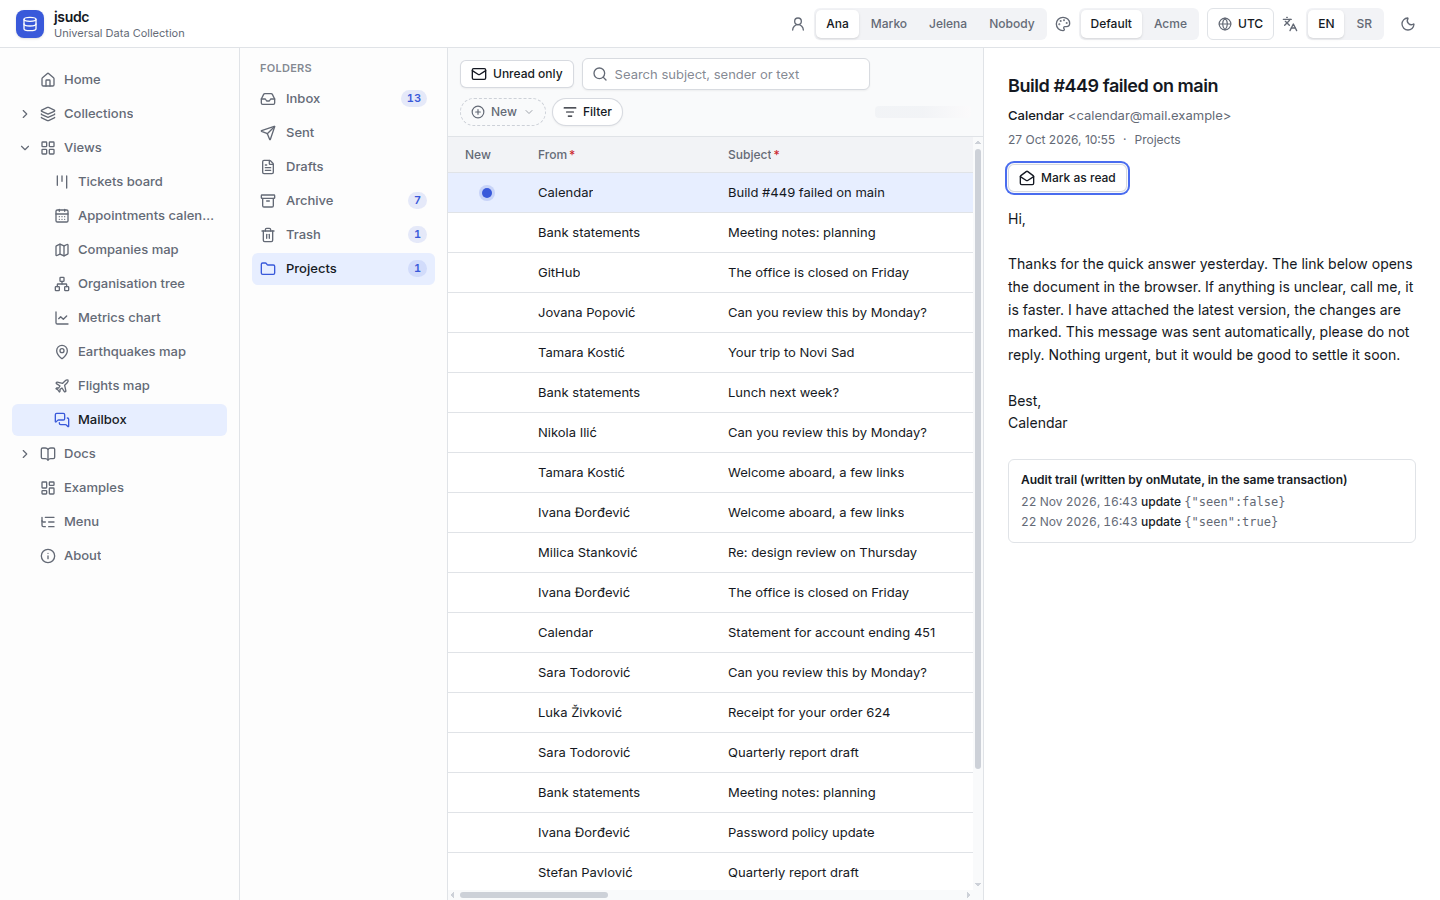
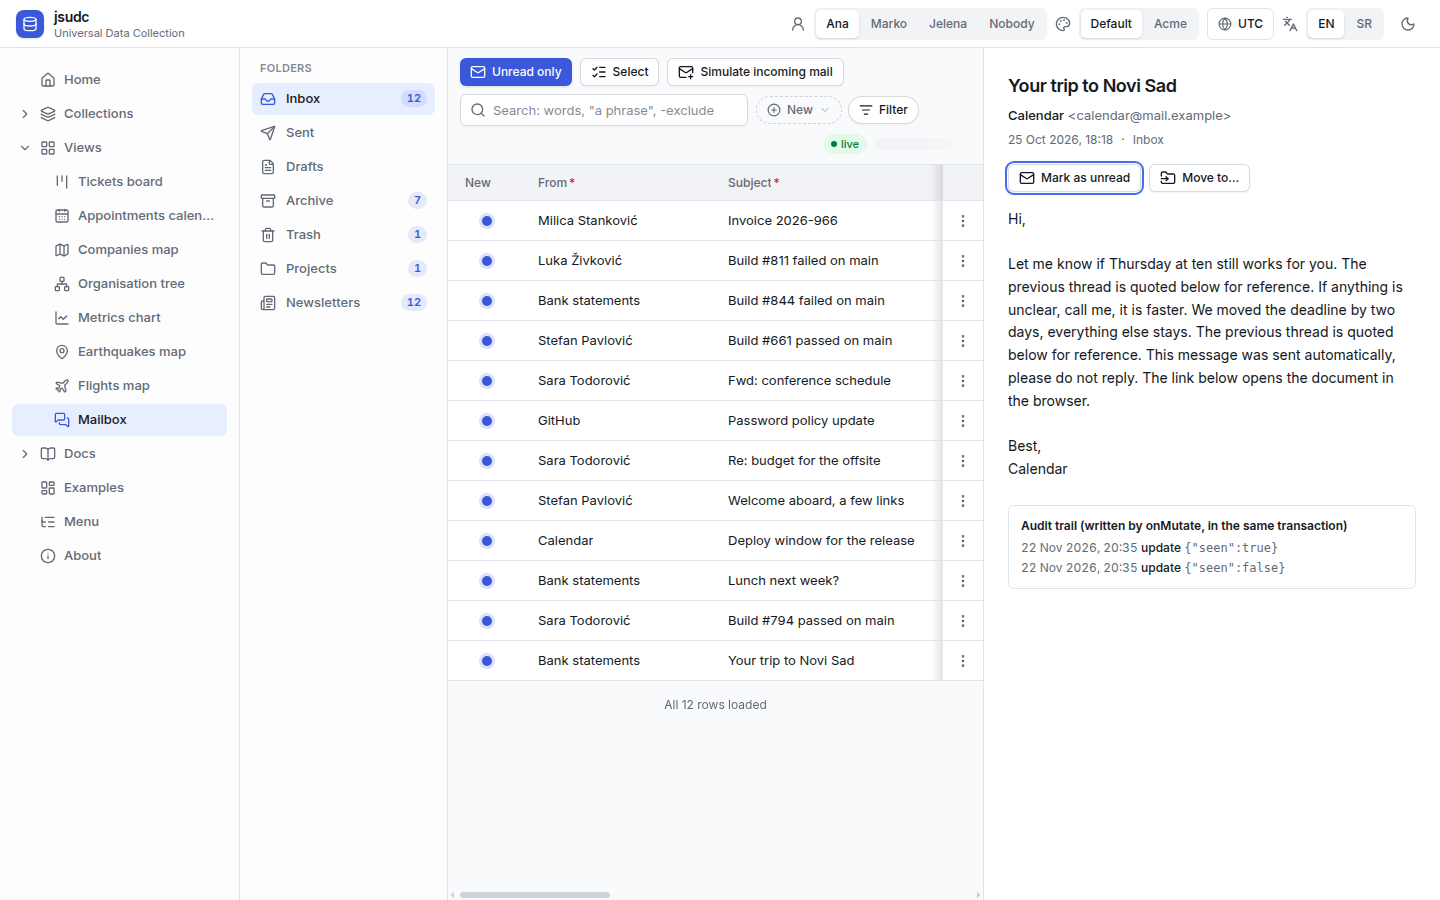
docs: the mailbox on @jsudc/* 0.5.0 — README, a demo.md section with screenshots; the change feed's route in the production vhost
README: what each package adds in 0.5.0, the mailbox's new parts
(selection and bulk bar, row menu, the typed host action in @jsudc/shared,
live updates, source search, the long folder), ^0.5.0, shared/ in the
layout, the GET /udc/changes proxy rules.
demo.md: "What 0.5.0 adds" — a table of which part shows what, seven steps
to click, what a multi-process host configures (the Postgres bus) and what a
proxy must allow, four things to know (Select as a switch and the ARIA
change, a feed per user reported as TCKWEPXYF9, derived counts, search vs
"all that match"); the eight 0.4.0 pictures retaken and seven new ones, at
1440x900.
deploy/nginx/examples.jsudc.dev.conf: location = /udc/changes, unbuffered,
for when production is deployed (its own ticket).

Thilo-Ticket: TCK2E69MJD

diff --git a/docs/demo.md b/docs/demo.md
@@ -10,8 +10,8 @@ UDC path, shown as a table and as cards, with columns added from the UI.
 nvm use
 npm ci                      # installs @jsudc/* from npmjs.org, already built
 npm run db:setup
-npm run db:migrate -w @jsudc/backend   # once after pulling: new tables (0003 appointments … 0005 metrics, 0006 the mailbox)
-npm run seed -- --reset     # 200 companies (with lat / lng), 3 boards / 15 buckets / 60 tickets, ~640 appointments around today, 30 days of metrics up to now, 3 mailboxes of 300 messages
+npm run db:migrate -w @jsudc/backend   # once after pulling: new tables (0003 appointments … 0005 metrics, 0006 the mailbox, 0007 its full-text index)
+npm run seed -- --reset     # 200 companies (with lat / lng), 3 boards / 15 buckets / 60 tickets, ~640 appointments around today, 30 days of metrics up to now, 3 mailboxes of 300 messages plus 5,000 newsletters each
 npm run dev                 # backend :5100 + Vite (it prints its port)
 ```
 
@@ -504,10 +504,10 @@ Database / Files / Internet.
 
 ## The mailbox: `/mail`, context and scope, `postgres_table`, `onMutate`, an embedded view
 
-A small mail client, written in the example on `@jsudc/*` 0.4.0: three demo
+A small mail client, written in the example on `@jsudc/*` 0.4.0 and extended on 0.5.0 (see [What 0.5.0 adds](#what-050-adds-selection-row-actions-host-actions-live-updates-source-search-a-long-list)): three demo
 users with their own folders and messages, a folder list and a reading pane
 of the example's own, and the message list between them a `UdcDataView`.
-Each part shows one thing 0.4.0 adds:
+Each part below shows one thing 0.4.0 adds:
 
 | part | where | what it demonstrates |
 |---|---|---|
@@ -604,9 +604,9 @@ Three things to know in 0.4.0:
 
 - **The count.** With `total_count: false` the server answers `total: null`
   and the toolbar's count stays a grey placeholder instead of saying how many
-  rows are loaded (visible top right in the pictures). That is a bug of
-  `@jsudc/react` 0.4.0, reported as TCKXTDJURQ; the example does not work
-  around it.
+  rows are loaded (visible top right in the pictures, beside *live*). That is
+  a bug of `@jsudc/react` 0.4.0, reported as TCKXTDJURQ, still there in 0.5.0;
+  the example does not work around it.
 - **Every field is a column.** `describe` adds a column for each schema field
   a view does not list, and a view cannot leave one out, so the message
   list's `view.yaml` lists the columns the reading pane shows instead
@@ -617,6 +617,140 @@ Three things to know in 0.4.0:
   host whose own pages embed the list imports the scoped sheet instead; the
   code under `src/mail/` is the same either way.
 
+### What 0.5.0 adds: selection, row actions, host actions, live updates, source search, a long list
+
+The same screen on `@jsudc/*` 0.5.0. Nothing above changed. Each new part is
+here the way a host such as a mail client would use it:
+
+| part | where | what it demonstrates |
+|---|---|---|
+| the toolbar's **Select**, the checkboxes and the bulk bar | `mail_messages/view.yaml` (`multiselect`, `bulk_actions`), `MailPage.tsx` (`selectable`, `actions`) | selection (a range on shift-click, Space on the active row, the page); *Mark read* / *Mark unread* by `set` (a `mutate_many` update, no code); *Delete* built in (a confirmation, then `mutate_many` delete); *Archive* by a host handler (`actions={{ archive }}`) |
+| "Select all that match" | the same, on a folder | the selection by filter minus the unticked rows; `mail_messages` has `total_count: false`, so the offer and the bar carry no number and the result says what the server changed (`updated`) |
+| the dots at the end of each row | `row_action_defs`, `row_actions_display: menu` | row actions in a menu (also right-click, Shift+F10 or `.`), each where its `when` holds: no *Mark read* on a read message, no *Archive* in the Archive |
+| **Move to…** in the reading pane, and *Archive* | `shared/src/mail-actions.ts`, `backend/src/mail/actions.ts`, `MailPage.tsx` | a host action typed end to end: `defineHostAction` once in `@jsudc/shared`, `Dispatcher.register(moveToFolder, handler)` with the request context, `useUdcAction(moveToFolder)` in the browser. The handler reads the target folder under the caller's scope (another user's folder is `not_found`) and moves with one `mutate_many`, so the row scope, the audit and the feed all apply |
+| **Simulate incoming mail** and the *live* badge | `simulateIncoming` in the same files, `createChangeFeed()` in `backend/src/main.ts`, `DemoUserFeed` in `App.tsx` | the change feed: `UdcProvider changes`; a host's own write announced with `changes.notify("mail_messages", { op: "insert", ids, ctx })`, which only streams in that user's scope hear; `useUdcChanges` refreshes the folder counts, which the feed cannot know are derived from the messages |
+| the search box | migration `0007_mail_search.sql`, `MAIL_SEARCH` in `backend/src/mail/sources.ts` | search answered by the source: a generated `tsvector` (subject A, sender B, text C; `english` stemming) with a GIN index, the `postgres_table` `search` option (`match` and `rank`), `capabilities.search: "source"`; the box sends `search`, best match first |
+| *Newsletters* | `generateNewsletters` in `backend/scripts/generate-mail.ts`, `VIRTUALIZE` in `MailPage.tsx` | a long list: 5,000 messages per user, infinite paging, `virtualize={{ enabled: true, overscan: 20 }}` |
+
+After pulling: `npm run db:migrate -w @jsudc/backend` (for `0007`), then
+`npm run seed`. *Newsletters* is added for every user who has none, even
+without `--reset`, so a mailbox seeded by 0.4.0 keeps its messages and gains
+the folder.
+
+1. **Select and archive.** In Ana's Inbox press **Select** (`?select=1`): a
+   checkbox column appears. Tick three messages; the bar shows *3 selected*,
+   **Mark read**, **Mark unread**, **Archive** and **Delete**. Press
+   **Archive**: one `POST /udc/mail.move_to_folder` with the three ids, and
+   they leave the Inbox for the Archive (its unread count follows). Every
+   moved message has an audit row: the move is a `mutate_many` with `onMutate`,
+   one transaction, all or nothing.
+
+   ![Three messages selected, the bulk bar](../frontend/public/screenshots/mail-select-bulk.png)
+
+2. **Select all that match.** Open **Archive** (60 messages, 50 per page),
+   press **Select**, tick the header's checkbox: the bar offers *Select all
+   that match*, with no number, because the folder has no total. Take it: *All
+   matching rows are selected*. **Mark unread** now sends `mutate_many` with
+   the folder's filter, not ids, and the server answers how many it changed.
+
+   ![The offer, with no number](../frontend/public/screenshots/mail-select-all-offer.png)
+
+   ![All matching rows are selected](../frontend/public/screenshots/mail-select-all-matching.png)
+
+3. **A row's menu.** Without selecting anything, press the dots at the end of
+   an unread message (or right-click it, or Shift+F10 / `.` on the active
+   row): *Mark read*, *Archive*, *Delete*. On a read message the menu offers
+   *Mark unread* instead; in the Archive there is no *Archive*. *Mark read*
+   shows the message read at once and puts it back if the server refuses.
+
+   ![The row menu of a read message](../frontend/public/screenshots/mail-row-menu.png)
+
+4. **Move to folder.** Open a message and press **Move to…** in the reading
+   pane. The menu lists the user's other folders; pick one. The answer is
+   typed `{ moved, failed }`. Over HTTP, another user's folder is
+   `not_found` and another user's message is in `failed`:
+
+   ```sh
+   curl -s localhost:5100/udc/mail.move_to_folder -H 'content-type: application/json' -H 'x-demo-user: ana' \
+     -d '{"folder_id":"<a folder id of Marko>","ids":["<a message id of Ana>"]}'
+   # {"kind":"udc.mail.move_to_folder.err",…,"payload":{"code":"not_found",…}}
+   ```
+
+   ![Move to… in the reading pane](../frontend/public/screenshots/mail-move-to.png)
+
+5. **Incoming mail, live.** The list's toolbar shows *live*: the stream is
+   open. Press **Simulate incoming mail**: the backend writes a message into
+   Ana's Inbox outside jsudc and tells the feed. The new message appears at
+   the top, unread, and the Inbox count goes up, without a reload. Now open a
+   second browser (or a private window) as **Marko** on `/mail` and simulate
+   mail for Ana again: Marko's screen does not move. His stream asked for the
+   same collection, but the server tests each change against each stream's
+   row scope (`owner = marko`) and sends him nothing. Events carry ids only,
+   never rows: the client refetches under its own scope.
+
+   ![A message arrived by itself](../frontend/public/screenshots/mail-incoming.png)
+
+6. **Search by rank.** Type `invoices` in the search box: the request carries
+   `search: "invoices"` (no `contains` filters) and no sort, so Postgres
+   answers best match first (`ts_rank`); stemming finds *Invoice*. The
+   newest-first default steps aside while a search is typed and comes back
+   when the box is cleared; a column you sort by is kept. Web-search syntax
+   works: `"design review"`, `build -passed`.
+
+   ![A search answered by the full-text index](../frontend/public/screenshots/mail-search.png)
+
+7. **A long list.** Open **Newsletters** and scroll, or hold `j`: pages of 50
+   arrive as you near the end, and however many are loaded the table keeps a
+   few dozen rows in the page (spacer rows stand for the rest). The
+   scrollbar, the sticky header and the keys behave as if every row were
+   there; `aria-rowcount` is the loaded count.
+
+   ![5,000 newsletters, windowed](../frontend/public/screenshots/mail-long-folder.png)
+
+**One process or several.** The stage runs one backend process, so
+`createChangeFeed()` uses the default in-process bus. A host with several
+processes behind a load balancer gives every one the same bus, so a write
+through one reaches the streams of the others:
+
+```ts
+import { createChangeFeed, createPostgresChangeBus } from "@jsudc/server";
+
+const changes = createChangeFeed({
+  bus: createPostgresChangeBus({ connectionString: process.env.DATABASE_URL!, pool: handle.pool }),
+});
+```
+
+`PostgresChangeBus` keeps one `LISTEN` connection per process (reopened with
+backoff) and sends with `NOTIFY` on `jsudc_changes`; Redis or NATS is a
+`ChangeBus` of your own. Whatever sits in front must not buffer the stream:
+nginx `proxy_buffering off`, a read timeout above the 15 s heartbeat, HTTP/1.1
+upstream (the route sends `X-Accel-Buffering: no` itself).
+`deploy/nginx/examples.jsudc.dev.conf` has that block for `/udc/changes`. The
+stage vhost sends everything to Vite, which streams it through.
+
+Things to know in 0.5.0:
+
+- **Select is a switch here.** With selection on, 0.5.0 gives
+  `aria-selected` its multi-select meaning (*this row is selected*) and marks
+  the active row `aria-current` instead. The example turns selection on with
+  the toolbar's **Select** (`selectable`) rather than always: off, the list is
+  exactly 0.4.0's, the active row is `aria-selected`, and the 0.4.0 keyboard
+  walk (step 2 above, `mail.cy.ts`) is unchanged. A mail client that always
+  shows checkboxes leaves `selectable` out; the view's `multiselect` turns it on.
+- **A feed per user.** The server fixes a stream's row scope when it opens,
+  and the feed does not reopen when only the answer of `UdcClient`'s
+  `headers` function changes. The example therefore keys the provider by the
+  demo user (`<UdcProvider key={user} changes>`), which remounts the screen on
+  a switch. Reported as TCKWEPXYF9 (a way to reopen the stream without
+  remounting).
+- **Derived counts.** The feed tells a client which collection changed. The
+  folders' unread counts are computed from the messages, so the example
+  listens to `mail_messages` with `useUdcChanges` and refetches `mail_folders`
+  itself; its host actions also `notify` `mail_folders` for other clients.
+- **Search and "all that match".** While a source search is typed, the bar
+  offers no "Select all that match": `mutate_many` by filter cannot carry the
+  search text, so only the loaded rows can be selected.
+
 ## What is behind it
 
 - Three libraries and an example. `@jsudc/core` ([jsudc-core](https://github.com/digital-cube/jsudc-core)) holds the
@@ -624,7 +758,7 @@ Three things to know in 0.4.0:
   `@jsudc/server` and `@jsudc/react` are the server machinery and the data view.
   What you are looking at is the example: `backend/` (the collections, their
   tables, migrations and generators) and `frontend/` (the shell and its strings)
-  depend on the three from npmjs.org (`^0.4.0`) and import their built
+  depend on the three from npmjs.org (`^0.5.0`) and import their built
   `dist`, as an outside project would.
 - One endpoint, `POST /udc/:action`, serves `describe`, `list`, `mutate`,
   `schema.*`, `reindex`, `tree.reparent` and `source.read`. The new column shows up because `describe` derives a column for

diff --git a/README.md b/README.md
@@ -13,9 +13,9 @@ The libraries live in their own repositories:
 
 | package | repository | what it is |
 |---|---|---|
-| `@jsudc/core` | [digital-cube/jsudc-core](https://github.com/digital-cube/jsudc-core) | the shared protocol, once: envelopes, the filter DSL and an in-memory evaluator, schema and view types, row validation and every action payload as Zod schemas with inferred types, plus the transport client (`@jsudc/core/client`) |
-| `@jsudc/server` | [digital-cube/jsudc-server](https://github.com/digital-cube/jsudc-server) | dispatcher, collection registry, the six sources (`postgres_table` since 0.4.0), schema revisions, seeding, the request context and row scope, `onMutate`, the Fastify plugin |
-| `@jsudc/react` | [digital-cube/jsudc-react](https://github.com/digital-cube/jsudc-react) | hooks, `<UdcDataView>` and its seven renderers (one subpath each), embedding and row activation, custom cells, sessions, the default UI kit, the router adapter, the schema editor, i18n, theme tokens and a compiled stylesheet (global or scoped) |
+| `@jsudc/core` | [digital-cube/jsudc-core](https://github.com/digital-cube/jsudc-core) | the shared protocol, once: envelopes, the filter DSL and an in-memory evaluator, schema and view types, row validation and every action payload as Zod schemas with inferred types, plus the transport client (`@jsudc/core/client`); since 0.5.0 `mutate_many`, `defineHostAction`, `ListRequest.search` and the change feed's `ChangeEvent` / `UdcClient.changes` |
+| `@jsudc/server` | [digital-cube/jsudc-server](https://github.com/digital-cube/jsudc-server) | dispatcher, collection registry, the six sources (`postgres_table` since 0.4.0), schema revisions, seeding, the request context and row scope, `onMutate`, the Fastify plugin; since 0.5.0 `mutate_many`, typed host actions (`Dispatcher.register`), search answered by the source and the change feed (`createChangeFeed`, `GET /udc/changes`) |
+| `@jsudc/react` | [digital-cube/jsudc-react](https://github.com/digital-cube/jsudc-react) | hooks, `<UdcDataView>` and its seven renderers (one subpath each), embedding and row activation, custom cells, sessions, the default UI kit, the router adapter, the schema editor, i18n, theme tokens and a compiled stylesheet (global or scoped); since 0.5.0 selection and the bulk bar, row actions, `useUdcAction` / `useUdcMutateMany`, live updates (`UdcProvider changes`, `useUdcChanges`) and windowed long lists |
 
 The point of the exercise is the **shared interface**: in UDC today the protocol is
 declared twice, once in Python and once in TypeScript, and the two drift; in jsudc
@@ -86,6 +86,44 @@ walks through it; it is the model a host such as a mail client copies.
 
 ![/mail: Ana's Inbox, the welcome message open](frontend/public/screenshots/mail-inbox.png)
 
+**What 0.5.0 adds to the mailbox**, each part the way a host would use it
+([docs/demo.md](docs/demo.md#what-050-adds-selection-row-actions-host-actions-live-updates-source-search-a-long-list)
+has what to click):
+
+- **Selection and bulk actions.** The view declares `multiselect` and
+  `bulk_actions` (`backend/collections/mail_messages/view.yaml`); the
+  toolbar's *Select* turns selection on with `UdcDataView selectable`.
+  *Mark read* / *Mark unread* carry `set` (a `mutate_many` update, no code),
+  *Delete* is built in, *Archive* runs a handler of the example's
+  (`actions={{ archive }}`) that calls the host action below. With the
+  page selected, "Select all that match" switches to the filter minus the
+  unticked rows; the messages have no total (`total_count: false`), so it
+  shows no number and the server reports what it changed.
+- **Row actions.** `row_action_defs` in a menu (`row_actions_display: menu`):
+  the dots, a right-click, Shift+F10 or `.`; each entry only where its `when`
+  holds (no *Mark read* on a read message, no *Archive* in the Archive).
+- **A host action, typed end to end.** `mail.move_to_folder` is defined once
+  with `defineHostAction` in `shared/` (the workspace `@jsudc/shared`, which
+  both sides import), registered with `Dispatcher.register` in
+  `backend/src/mail/actions.ts` (it reads the target folder and runs one
+  `mutate_many` under the caller's context and scope) and called with
+  `useUdcAction` from the reading pane's *Move to…* and the *Archive*
+  handler.
+- **Live updates.** `createChangeFeed()` on the dispatcher, `UdcProvider
+  changes` in the app. *Simulate incoming mail* calls a second host action
+  that writes a message straight into the table and tells the feed with
+  `changes.notify(…, { ctx })`: the list and the Inbox count update without
+  a reload, and another user's open mailbox hears nothing.
+- **Search answered by the source.** Migration `0007` adds a generated,
+  GIN-indexed `tsvector`; the messages' source has the `search` option, so
+  the search box sends `search` and the rows come best match first
+  (web-search syntax: `"a phrase"`, `-word`).
+- **A long list.** Each user's *Newsletters* folder holds 5,000 messages;
+  the list is infinite and windowed (`virtualize`): a few dozen rows in the
+  page however far it scrolls.
+
+![/mail: three messages selected, the bulk bar](frontend/public/screenshots/mail-select-bulk.png)
+
 The design is in
 [`docs/superpowers/specs/2026-10-18-jsudc-design.md`](docs/superpowers/specs/2026-10-18-jsudc-design.md).
 Until phase 1 of the libraries plan the three packages were developed inside this
@@ -94,10 +132,11 @@ repository; that history is in its git log and in each library's repository.
 ## Layout
 
 ```
+shared/              @jsudc/shared: the mailbox's host actions (defineHostAction), imported by both sides
 backend/             the example server: the demo collections (backend/collections), their eight
                      jsonb tables and the three mailbox tables (src/db/schema.ts), drizzle
                      migrations (drizzle/), the generators (scripts/), the seed CLI, the
-                     mailbox's context, scope and sources (src/mail)
+                     mailbox's context, scope, sources and host actions (src/mail)
 frontend/            the example app (React 19 + Vite): the shell (menu, pickers, about page),
                      routes, the /mail screen (src/mail) and the demo dictionary (src/i18n),
                      around @jsudc/react
@@ -141,7 +180,7 @@ workspace, `npm test` runs only that one.
 
 `backend/` depends on `@jsudc/core` and `@jsudc/server`, `frontend/` on
 `@jsudc/core` and `@jsudc/react`. They come **from npmjs.org**, like any other
-dependency: each `package.json` names `^0.4.0`, `npm ci` downloads the published
+dependency: each `package.json` names `^0.5.0`, `npm ci` downloads the published
 tarballs (already built, `dist` included) and `package-lock.json` pins their
 version and integrity. No GitHub credential is involved. `@jsudc/server` and
 `@jsudc/react` take `@jsudc/core` as a peer dependency, so npm hoists a single
@@ -155,7 +194,7 @@ alias to a library's source anywhere (not in `vite.config.ts`, `vitest.config.ts
 or any `tsconfig.json`). To change a library, change it in its repository, publish
 a release to npm, and bump the version here.
 
-The frontend uses `@jsudc/react` as its CHANGELOG's 0.2.0 migration asks (unchanged in 0.3.0 and 0.4.0):
+The frontend uses `@jsudc/react` as its CHANGELOG's 0.2.0 migration asks (unchanged in 0.3.0, 0.4.0 and 0.5.0):
 `frontend/src/index.css` imports the compiled `@jsudc/react/styles.css` (the
 library's utilities, all `udc:`-prefixed) and, for the shell's own unprefixed
 Tailwind, `@jsudc/react/tokens.css`; it does not scan the package.
@@ -176,6 +215,18 @@ The backend passes `context` to the plugin and `rowScope` to
 `createDispatcher` (`backend/src/main.ts`) and builds the mailbox's
 `PostgresTableSource`s in code (`backend/src/sources.ts`); every other
 collection is still exactly what its `source.yaml` says, unscoped.
+
+Since 0.5.0 the backend gives `createDispatcher` a change feed
+(`createChangeFeed()`, the in-process bus: one server process) and registers
+the mailbox's host actions on it (`registerMailActions`); the plugin then
+serves `GET /udc/changes`, which Vite's dev proxy forwards (it is a GET, so it
+has a rule of its own beside the POSTs). The frontend wraps the routes in a
+`UdcProvider changes` keyed by the demo user (`DemoUserFeed` in `App.tsx`):
+the server fixes a stream's row scope when it opens, so a new user gets a new
+stream. The host actions are defined once in `shared/` (`@jsudc/shared`, a
+workspace whose `exports` point at its TypeScript source; `tsx` and Vite read
+it directly). A host that changes nothing keeps 0.4.0's behaviour: with no app
+change, the 16 specs of 0.4.0 passed on 0.5.0 before any of this was added.
 
 The example keeps the global `styles.css`, not `@jsudc/react/styles.scoped.css`:
 its pages are the library's own, and the library asks for one of the two,
@@ -223,9 +274,10 @@ Collections are directories under `backend/collections/<name>/` (`view.yaml`,
 field in `data jsonb` — except the mailbox (`mail_folders`, `mail_messages`,
 `mail_audit`): `source.yaml` says `postgres_table`, the tables have typed
 columns, and `backend/src/mail/sources.ts` builds the sources in code (a join,
-computed fields, `onMutate`). `npm run seed` fills them with
+computed fields, `onMutate`, the full-text `search`). `npm run seed` fills them with
 `backend/scripts/generate-mail.ts` (per demo user six folders and 300
-messages); a mailbox request needs a demo user:
+messages, and a seventh, *Newsletters*, with 5,000, added wherever it is
+missing even without `--reset`); a mailbox request needs a demo user:
 
 ```sh
 curl -s localhost:5100/udc/list -H 'content-type: application/json' -H 'x-demo-user: ana' \
@@ -246,7 +298,8 @@ npm run e2e        # Cypress headless against a reseeded jsudc_test (see below)
 Vite listens on `VITE_PORT` (5173; it moves to the next free port if that one is
 taken). The dev proxy targets `UDC_PROXY_TARGET` (default `http://127.0.0.1:5100`);
 setting `VITE_UDC_URL` instead makes the browser call that backend directly.
-Only POSTs under `/udc` are proxied: `GET /udc/<collection>` is an app route.
+Only POSTs under `/udc` are proxied (`GET /udc/<collection>` is an app route),
+plus two GETs: the file preview `/udc/files/blob` and the change feed `/udc/changes`.
 
 `frontend/src/`: `main.tsx`, `App.tsx` (providers and routes), `shell/` (AppShell,
 MenuTree, TimezonePicker, AboutPage) and `i18n/messages.ts`, the example's strings
@@ -276,7 +329,7 @@ second `server` block in the same vhost. Everything it needs is in
 [`deploy/`](deploy):
 
 ```
-edge (TLS)  ->  nginx :80 examples.stage.jsudc.dev  ->  Vite 127.0.0.1:5101  ->  POST /udc/*, /healthz  ->  Fastify 127.0.0.1:5100
+edge (TLS)  ->  nginx :80 examples.stage.jsudc.dev  ->  Vite 127.0.0.1:5101  ->  POST /udc/*, GET /udc/changes, /healthz  ->  Fastify 127.0.0.1:5100
                 nginx :80 jsudc.igor.digitalcube.work  ->  301 https://examples.stage.jsudc.dev$request_uri
 deploy/nginx/examples.stage.jsudc.dev.conf   the vhost (both server blocks); /etc/nginx/sites-enabled/ links to it
 deploy/systemd/jsudc-dev.service             user unit running `npm run dev`; ~/.config/systemd/user/ links to it
